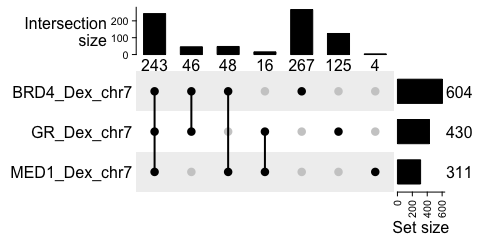
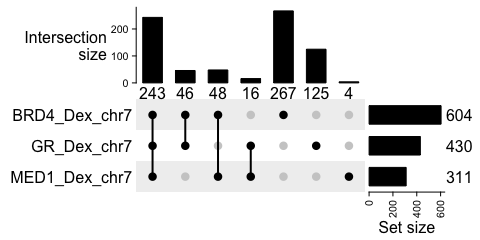
update graphical abstract

diff --git a/README.md b/README.md
@@ -18,7 +18,7 @@ number of overlapping elements. With seamless support for `GRanges` and
 workflows such as ChIP-seq, ATAC-seq, or other interval-based analyses,
 and produces clean, publication-ready figures.
 
-<img src="man/figures/20250826_graphical_abstract_v1.png" align="center" width="800"/>
+<img src="man/figures/20250827_graphical_abstract_v2.png" align="center" width="800"/>
 
 ## Installation
 
